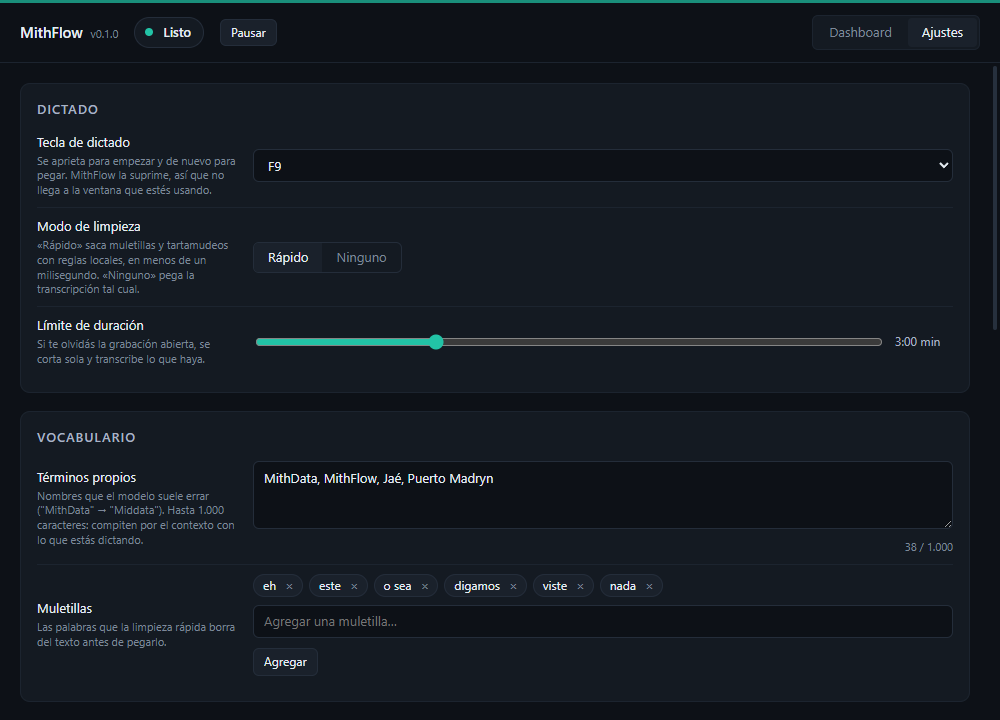
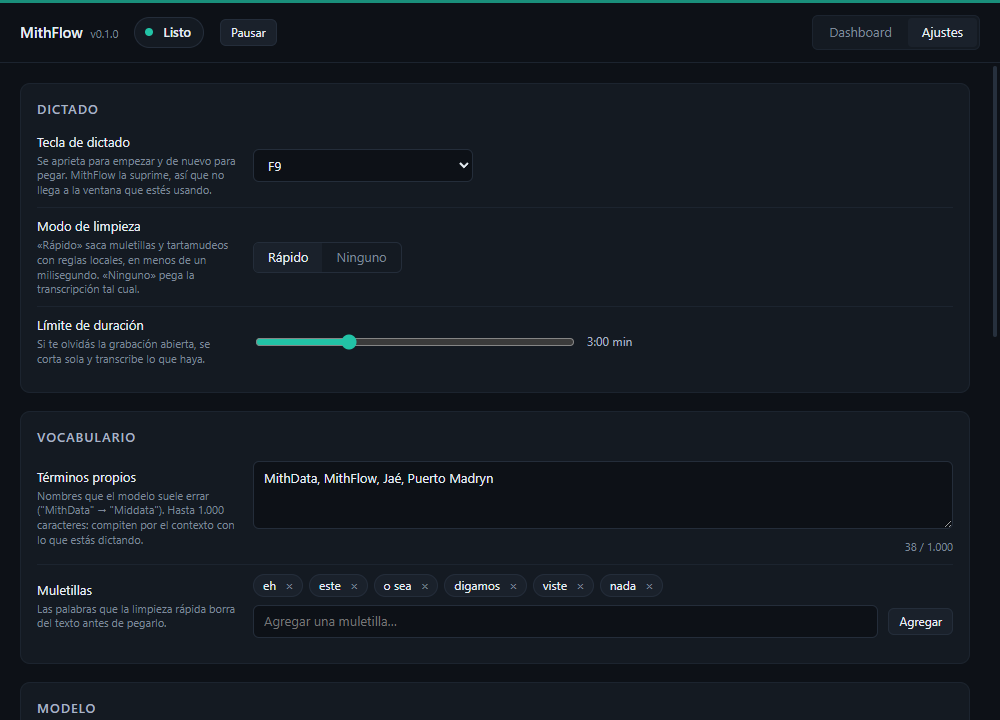
refactor(app): sincronizar los refs en un efecto y sacar los estilos inline
Dos limpiezas del pase de revisión, sin cambio de comportamiento.

1. `Dashboard` y `Asistente` registran sus oyentes una sola vez y leen el valor
   vigente (el texto del buscador, el paso del asistente) por un `ref`, para no
   re-suscribirse en cada tecla y perder un evento en el hueco entre el
   `unlisten` y el `listen`. Ese `ref` se asignaba durante el render, que es
   impuro: React puede renderizar sin llegar a comitear, y ahí el `ref` queda
   adelantado respecto de lo que se pintó. Hoy no muerde —no hay transiciones ni
   Suspense en el árbol— pero es un renglón que funciona por lo que la app NO
   usa todavía. Va a un `useEffect`.

2. Los estilos inline que no dependían de datos pasan a la hoja de estilos
   (`.aclaracion` para la letra chica al lado de un control, `.pasos > span`
   para las bolitas del asistente). Quedan sólo los dos que sí dependen de
   datos: el alto de cada barra del gráfico y el ancho de la barra de progreso,
   que salen de un número y no pueden vivir en un archivo estático.

diff --git a/app-nativa/app/src/vistas/Asistente.tsx b/app-nativa/app/src/vistas/Asistente.tsx
@@ -80,9 +80,12 @@ export default function Asistente({ catalogo, alCambiarCatalogo, alTerminar }: P
   const montado = useRef(true);
 
   // El paso vigente lo leen los oyentes, que se registran una sola vez. Un
-  // `ref` evita re-suscribirse (y perder un evento en el hueco).
+  // `ref` evita re-suscribirse (y perder un evento en el hueco). Se sincroniza
+  // en un efecto y no durante el render, que React puede descartar.
   const pasoActual = useRef(paso);
-  pasoActual.current = paso;
+  useEffect(() => {
+    pasoActual.current = paso;
+  }, [paso]);
 
   const medir = useCallback(() => {
     setError(null);
@@ -168,7 +171,7 @@ export default function Asistente({ catalogo, alCambiarCatalogo, alTerminar }: P
     <div className="asistente">
       <div className="pasos">
         {["Presentación", "Medición", "Modelo"].map((nombre, i) => (
-          <span key={nombre} style={{ display: "inline-flex", alignItems: "center", gap: 6 }}>
+          <span key={nombre}>
             <span
               className={
                 ETAPA[paso] > i ? "bolita hecha" : ETAPA[paso] === i ? "bolita activa" : "bolita"

diff --git a/app-nativa/app/src/vistas/Ajustes.tsx b/app-nativa/app/src/vistas/Ajustes.tsx
@@ -234,7 +234,7 @@ export default function VistaAjustes({ alCambiarCatalogo, avisar }: Props) {
           <div className="ancho-total">
             <div className="fichas">
               {borrador.muletillas.length === 0 && (
-                <span className="nota" style={{ color: "var(--texto-tenue)" }}>
+                <span className="aclaracion">
                   Sin muletillas: la limpieza rápida sólo va a colapsar tartamudeos.
                 </span>
               )}
@@ -418,9 +418,7 @@ export default function VistaAjustes({ alCambiarCatalogo, avisar }: Props) {
           >
             {confirmandoBorrado ? (
               <>
-                <span className="cifra" style={{ color: "var(--ambar)", minWidth: 0 }}>
-                  ¿Seguro? No hay deshacer.
-                </span>
+                <span className="aclaracion ojo">¿Seguro? No hay deshacer.</span>
                 <button type="button" className="boton peligro" onClick={borrarTodoElHistorial}>
                   Sí, borrar todo
                 </button>

diff --git a/app-nativa/app/src/vistas/Dashboard.tsx b/app-nativa/app/src/vistas/Dashboard.tsx
@@ -68,9 +68,12 @@ export default function Dashboard() {
   const montado = useRef(true);
   // El oyente de `dictado-nuevo` se registra una sola vez y necesita saber si
   // hay una búsqueda activa AHORA. Un `ref` y no el estado: volver a suscribirse
-  // en cada tecla perdería eventos entre el `unlisten` y el `listen`.
+  // en cada tecla perdería eventos entre el `unlisten` y el `listen`. Se
+  // sincroniza en un efecto y no durante el render, que React puede descartar.
   const busquedaActual = useRef(buscar);
-  busquedaActual.current = buscar;
+  useEffect(() => {
+    busquedaActual.current = buscar;
+  }, [buscar]);
 
   const refrescarMetricas = useCallback(() => {
     leerMetricas()

diff --git a/app-nativa/app/src/estilos.css b/app-nativa/app/src/estilos.css
@@ -1000,11 +1000,18 @@ button.modelo:hover:not(:disabled) {
   letter-spacing: 0.07em;
 }
 
+.pasos > span {
+  display: inline-flex;
+  align-items: center;
+  gap: 6px;
+}
+
 .pasos .bolita {
   width: 6px;
   height: 6px;
   border-radius: 50%;
   background: var(--borde);
+  flex: none;
 }
 
 .pasos .bolita.activa {
@@ -1089,6 +1096,16 @@ button.modelo:hover:not(:disabled) {
 
 .separado {
   margin-top: 12px;
+}
+
+/* Letra chica al lado de un control: una aclaración o una advertencia. */
+.aclaracion {
+  font-size: 12px;
+  color: var(--texto-tenue);
+}
+
+.aclaracion.ojo {
+  color: var(--ambar);
 }
 
 .avisos li > span:first-child {
